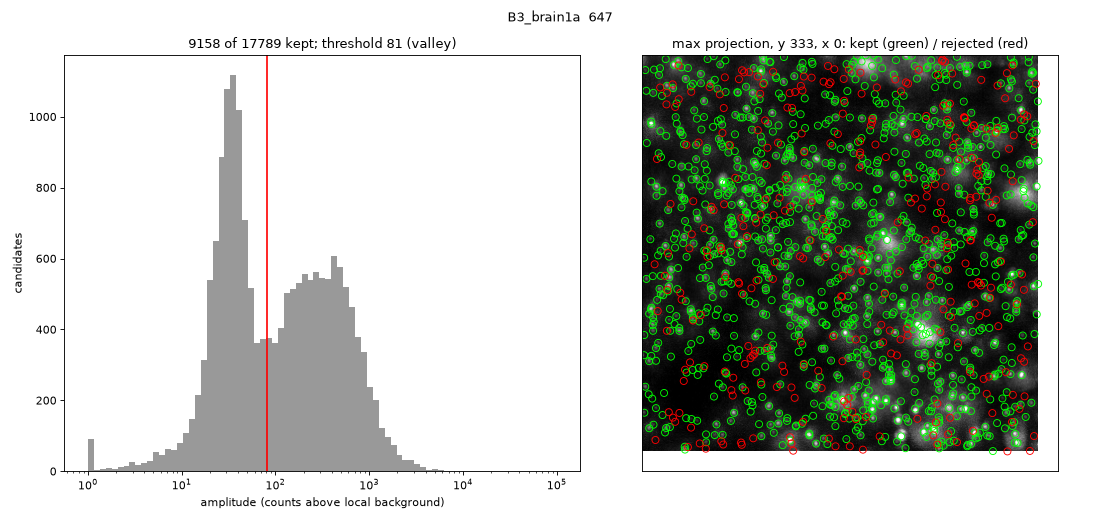
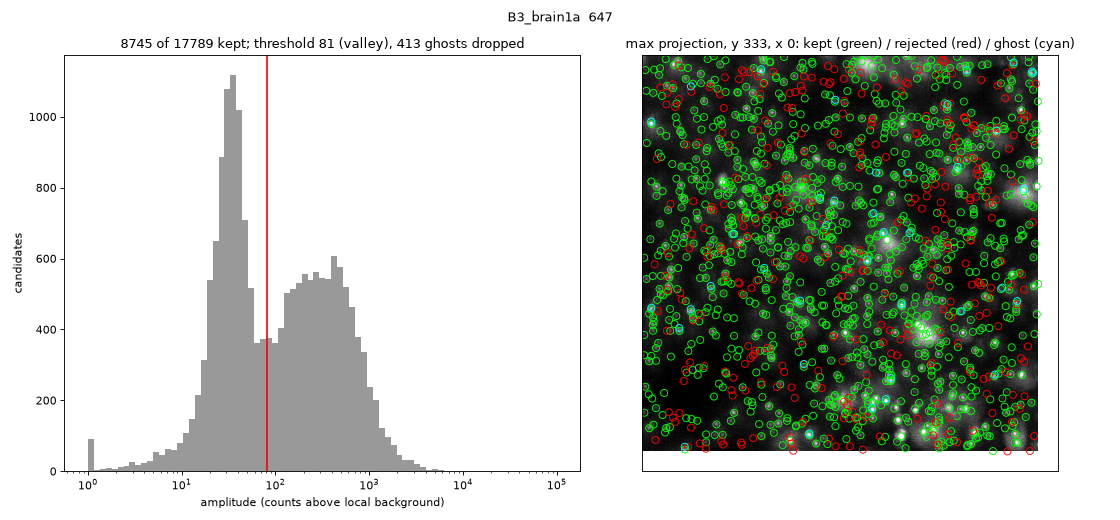
Drop 647 defocus ghosts in the spot filter
A bright 647 punctum throws a cone of out-of-focus light whose centre, 2-4 um
above it, Spotiflow detects as a dimmer spot. Kept spots with a brighter kept
spot within 0.4 um laterally and 2-4 um deeper were 10-80x chance in C1 and
B3 647 and at chance in 546, so the filter now drops them for channels listed
under spot_filter.ghosts (647 only): 758 in C1, 413 in B3, 31 in D3. QC
figures report and mark them.

diff --git a/workflow/scripts/filter_spots.py b/workflow/scripts/filter_spots.py
@@ -2,7 +2,8 @@
 
 The threshold is the valley between the noise and puncta peaks of this
 sample's amplitude histogram (common.min_amplitude), unless overridden in the
-config.
+config. For channels listed under spot_filter.ghosts, kept spots sitting just
+above a brighter kept spot (a defocus ghost of it) are then dropped.
 
 The figure shows the amplitude histogram with the threshold, and kept (green)
 versus rejected (red) spots on a max projection of the densest region. The
@@ -15,6 +16,7 @@ import matplotlib.pyplot as plt
 import numpy as np
 import pandas as pd
 import zarr
+from scipy.spatial import cKDTree
 
 from common import channel_index, min_amplitude, setup_logging
 
@@ -26,8 +28,29 @@ threshold, method = min_amplitude(candidates.amplitude.to_numpy(), snakemake.par
 if method == "fallback":
     log.warning("no valley between noise and puncta peaks; using the fallback threshold %s", threshold)
 keep = candidates.amplitude >= threshold
+log.info("%d/%d candidates with amplitude >= %.1f (%s)", keep.sum(), len(candidates), threshold, method)
+
+
+def ghosts_of(spots, xy_um, dz_um):
+    """Spots with a brighter spot within xy_um laterally and dz_um deeper."""
+    xy = spots[["y_um", "x_um"]].to_numpy()
+    z, amplitude = spots.z_um.to_numpy(), spots.amplitude.to_numpy()
+    lo, hi = dz_um
+    ghost = np.zeros(len(spots), bool)
+    for i, neighbours in enumerate(cKDTree(xy).query_ball_point(xy, xy_um)):
+        ghost[i] = any(lo <= z[j] - z[i] <= hi and amplitude[j] > amplitude[i] for j in neighbours)
+    return ghost
+
+
+ghost = np.zeros(len(candidates), bool)
+if snakemake.params.ghosts and keep.any():
+    g = snakemake.params.ghosts
+    ghost[np.flatnonzero(keep)] = ghosts_of(candidates[keep], g["xy_um"], g["dz_um"])
+    keep &= ~ghost
+    log.info("dropped %d defocus ghosts (brighter spot within %s um, %s um deeper)",
+             ghost.sum(), g["xy_um"], g["dz_um"])
 candidates[keep].to_csv(snakemake.output.spots, index=False)
-log.info("kept %d/%d candidates with amplitude >= %.1f (%s)", keep.sum(), len(candidates), threshold, method)
+log.info("kept %d/%d candidates", keep.sum(), len(candidates))
 
 fig, (ax_hist, ax_img) = plt.subplots(1, 2, figsize=(14, 6.5))
 bins = np.logspace(0, 5, 80)
@@ -35,6 +58,7 @@ ax_hist.hist(candidates.amplitude.clip(1, None), bins, color="0.6")
 ax_hist.axvline(threshold, color="r")
 ax_hist.set(xscale="log", xlabel="amplitude (counts above local background)", ylabel="candidates",
             title=f"{keep.sum()} of {len(candidates)} kept; threshold {threshold:.0f} ({method})"
+                  + (f", {ghost.sum()} ghosts dropped" if ghost.any() else "")
                   + (": NO VALLEY, CHECK" if method == "fallback" else ""))
 
 # Densest 400 x 400 px region, so the overlay shows the filter where it matters.
@@ -52,10 +76,11 @@ y0, x0 = max(cy - half, 0), max(cx - half, 0)
 mip = np.asarray(volume[:, y0:y0 + 2 * half, x0:x0 + 2 * half]).max(axis=0)
 ax_img.imshow(mip, cmap="gray", vmin=np.percentile(mip, 1), vmax=np.percentile(mip, 99.8))
 inside = candidates.y.between(y0, y0 + 2 * half) & candidates.x.between(x0, x0 + 2 * half)
-for mask, colour in [(inside & keep, "lime"), (inside & ~keep, "red")]:
+for mask, colour in [(inside & keep, "lime"), (inside & ~keep & ~ghost, "red"), (inside & ghost, "cyan")]:
     ax_img.scatter(candidates.x[mask] - x0, candidates.y[mask] - y0, s=40,
                    facecolors="none", edgecolors=colour, linewidths=0.8)
-ax_img.set(title=f"max projection, y {y0}, x {x0}: kept (green) / rejected (red)", xticks=[], yticks=[])
+ax_img.set(title=f"max projection, y {y0}, x {x0}: kept (green) / rejected (red) / ghost (cyan)",
+           xticks=[], yticks=[])
 fig.suptitle(f"{snakemake.wildcards.sample}  {snakemake.wildcards.channel}")
 fig.tight_layout()
 fig.savefig(snakemake.output.qc, dpi=80)

diff --git a/README.md b/README.md
@@ -32,7 +32,7 @@ The fourth channel is DAPI staining.
 
 ## Analysis approach
 1. Determine which voxels map to the neuron of interest (somata only so far; neurites are not yet included). The membrane channel is thresholded (globally, and relative to the brightest membrane nearby, to cut out-of-focus glow), filled, and stripped of neurites by a morphological opening. [Cellpose](https://github.com/MouseLand/cellpose) segments nuclei in DAPI, and a nucleus whose core lies inside the filled membrane belongs to a labelled neuron; each soma is the filled membrane nearest its nucleus. Only somata with a nucleus are counted. Soma-sized filled objects without a nucleus are kept in `cells.csv` with `has_nucleus = False` for inspection (if thick and evenly filled with membrane signal), but are left out of `results/tables/spot_counts.csv`: on visual review of 6 samples, 4 of 14 were somata and the rest were dendrites, axons, trachea or fat globules. Somata with a nucleus that review showed are not neurons are listed under `exclude_cells` in `config/config.yaml` and dropped from the same table. Line A is left out of the soma counts (`exclude_soma_lines`): its DAPI stain failed, with no nuclei in the labelled somata of any brain checked. Its neuron type, ER3p_a/b, is also labelled by line B. Line A's neurite measurements are kept. Per-sample QC figures are written to `results/figures/segmentation/`.
-2. Localize the mRNAs. [Spotiflow](https://github.com/weigertlab/spotiflow)'s pretrained 3D smFISH model proposes puncta, and candidates whose peak above the local background is below a per-sample threshold are dropped. Imaging conditions differ between brains, so the threshold is set for each sample and channel at the valley between the noise and puncta peaks of its amplitude histogram (`spot_filter` in `config/config.yaml`, where it can be overridden). Spotiflow was chosen over a Laplacian-of-Gaussian detector (Big-FISH) because it ignores the defocus rings around bright puncta, which Big-FISH picks up. RS-FISH was not benchmarked. Per-sample QC plots are written to `results/figures/spots/`.
+2. Localize the mRNAs. [Spotiflow](https://github.com/weigertlab/spotiflow)'s pretrained 3D smFISH model proposes puncta, and candidates whose peak above the local background is below a per-sample threshold are dropped. Imaging conditions differ between brains, so the threshold is set for each sample and channel at the valley between the noise and puncta peaks of its amplitude histogram (`spot_filter` in `config/config.yaml`, where it can be overridden). In 647, a bright punctum's out-of-focus cone produces a dimmer ghost detection 2–4 µm above it; kept 647 spots with a brighter kept spot directly below at that offset are dropped (about 11% of C1's and 4% of B3's 647 spots). Spotiflow was chosen over a Laplacian-of-Gaussian detector (Big-FISH) because it ignores the defocus rings around bright puncta, which Big-FISH picks up. RS-FISH was not benchmarked. Per-sample QC plots are written to `results/figures/spots/`.
 3. Colocalize the mRNAs with the neuron voxels to determine how many mRNAs are in each cell type. Each spot in a soma is tagged nuclear or cytoplasmic, or unknown in a soma without a detected nucleus. Neurites are measured separately, as one compartment per sample: a full-resolution membrane mask minus the counted somata (with a nucleus) gives the spot density in the line's processes, compared with the density in a 1–3 µm shell of surrounding tissue (`results/tables/neurite_counts.csv`, QC in `results/figures/neurites/`). Membrane within 2 µm of any DAPI nucleus is left out of both, since neuropil has no cell bodies: this keeps dim somata the segmentation misses out of the neurite count, at the cost of the first micron or two of each primary neurite. Enrichment near 1 means the neurites hold no more spots than the neuropil they run through.
 ## Inspecting results
 - `snakemake data/processed/<sample>/inspect` writes Fiji hyperstacks for one sample: the whole field on the segmentation grid, and full-resolution crops (with PNGs) of each nucleus-free cell. Channels are membrane, DAPI, each probe, soma and nucleus labels, soma outlines, and kept and rejected spot candidates per probe. It runs spot detection for the sample if needed.
